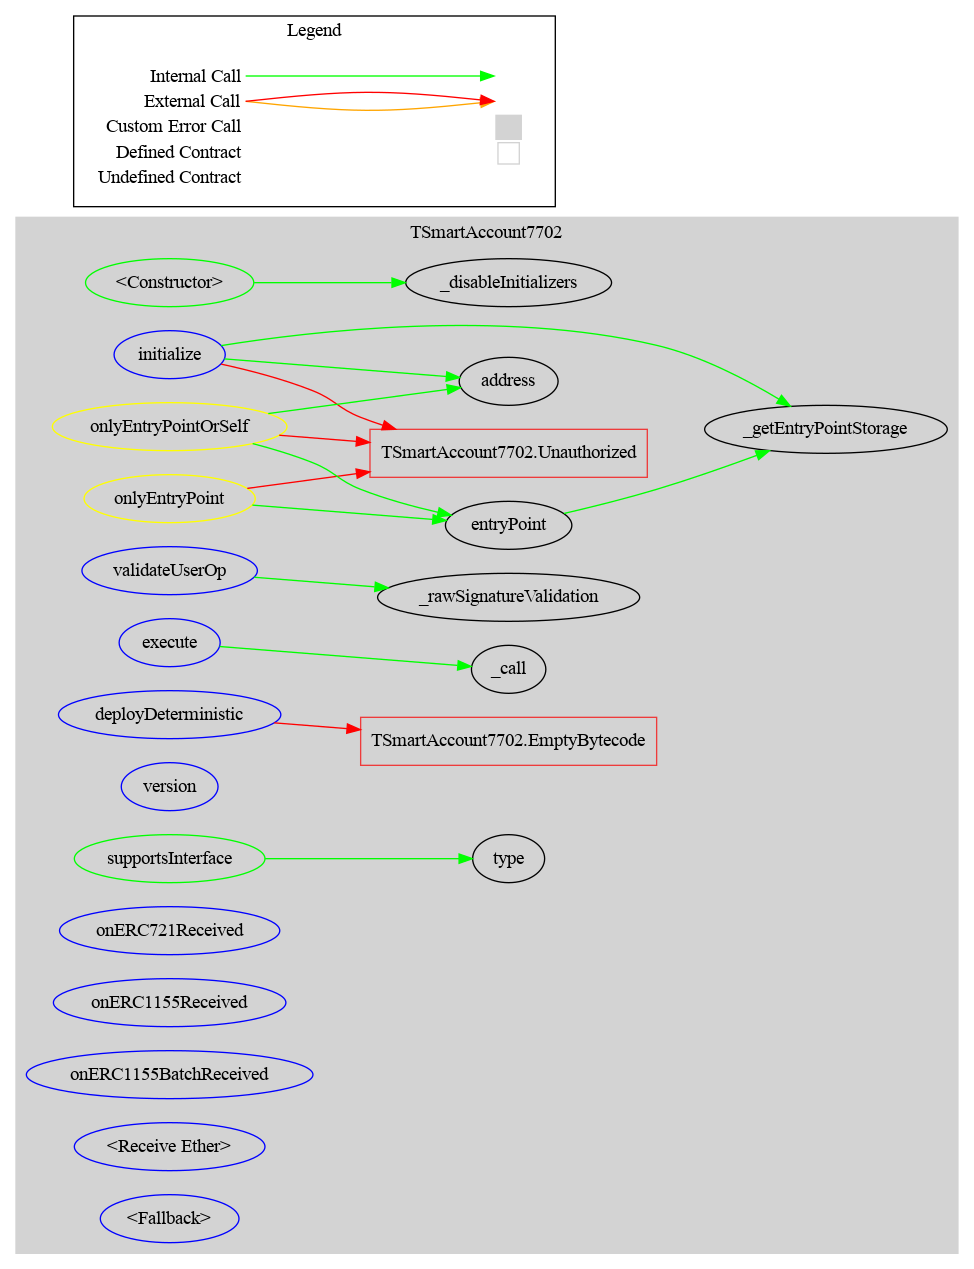
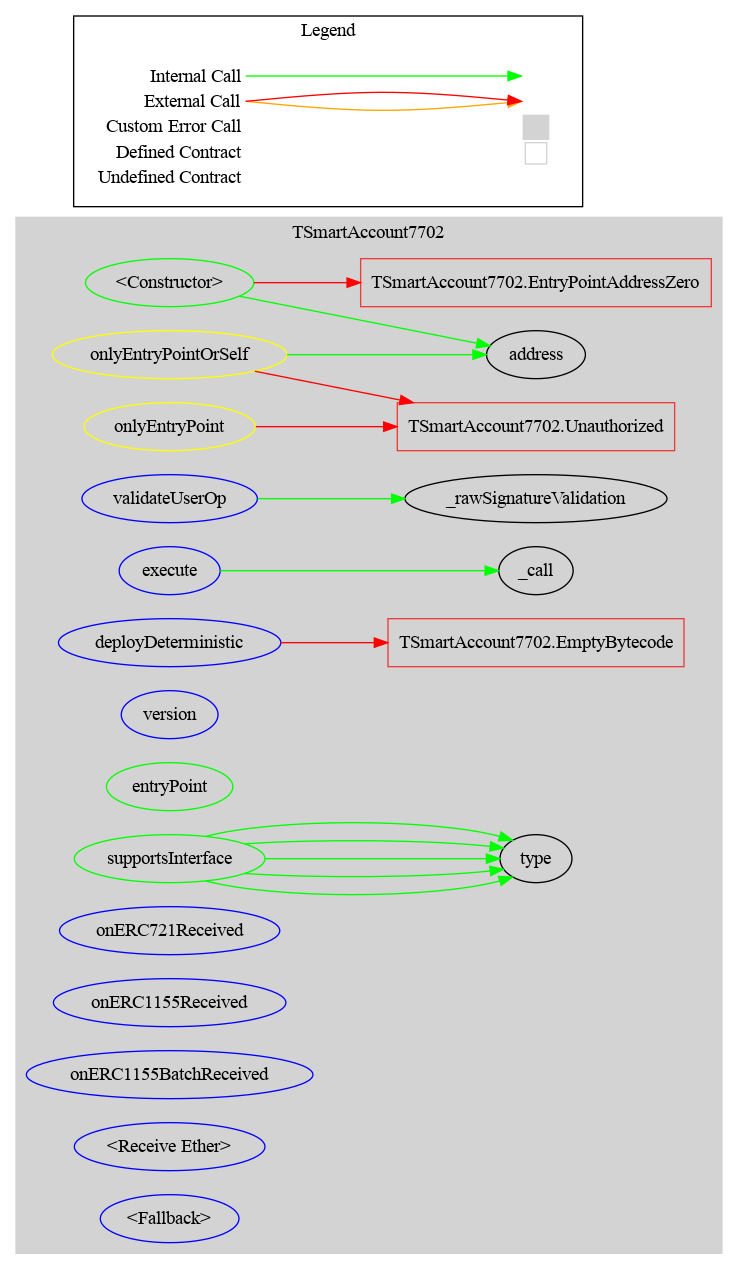
Update documentation

diff --git a/doc/surya/surya_report/surya_report_TSmartAccount7702.sol.md b/doc/surya/surya_report/surya_report_TSmartAccount7702.sol.md
@@ -5,7 +5,7 @@
 
 |  File Name  |  SHA-1 Hash  |
 |-------------|--------------|
-| ./TSmartAccount7702.sol | 270acff5e5df391762b703e987a7bb8452bc7c6b |
+| ./TSmartAccount7702.sol | 7109500794dde42d9d9bf042b3db0231b67054db |
 
 
 ### Contracts Description Table
@@ -15,15 +15,13 @@
 |:----------:|:-------------------:|:----------------:|:----------------:|:---------------:|
 |     └      |  **Function Name**  |  **Visibility**  |  **Mutability**  |  **Modifiers**  |
 ||||||
-| **TSmartAccount7702** | Implementation | ERC7739, SignerEIP7702, IAccount, Initializable |||
+| **TSmartAccount7702** | Implementation | ERC7739, SignerEIP7702, IAccount |||
 | └ | <Constructor> | Public ❗ | 🛑  | EIP712 |
-| └ | initialize | External ❗ | 🛑  | initializer |
 | └ | validateUserOp | External ❗ | 🛑  | onlyEntryPoint |
 | └ | execute | External ❗ |  💵 | onlyEntryPointOrSelf |
 | └ | deployDeterministic | External ❗ |  💵 | onlyEntryPointOrSelf |
 | └ | version | External ❗ |   |NO❗ |
 | └ | entryPoint | Public ❗ |   |NO❗ |
-| └ | _getEntryPointStorage | Private 🔐 |   | |
 | └ | supportsInterface | Public ❗ |   |NO❗ |
 | └ | onERC721Received | External ❗ |   |NO❗ |
 | └ | onERC1155Received | External ❗ |   |NO❗ |
